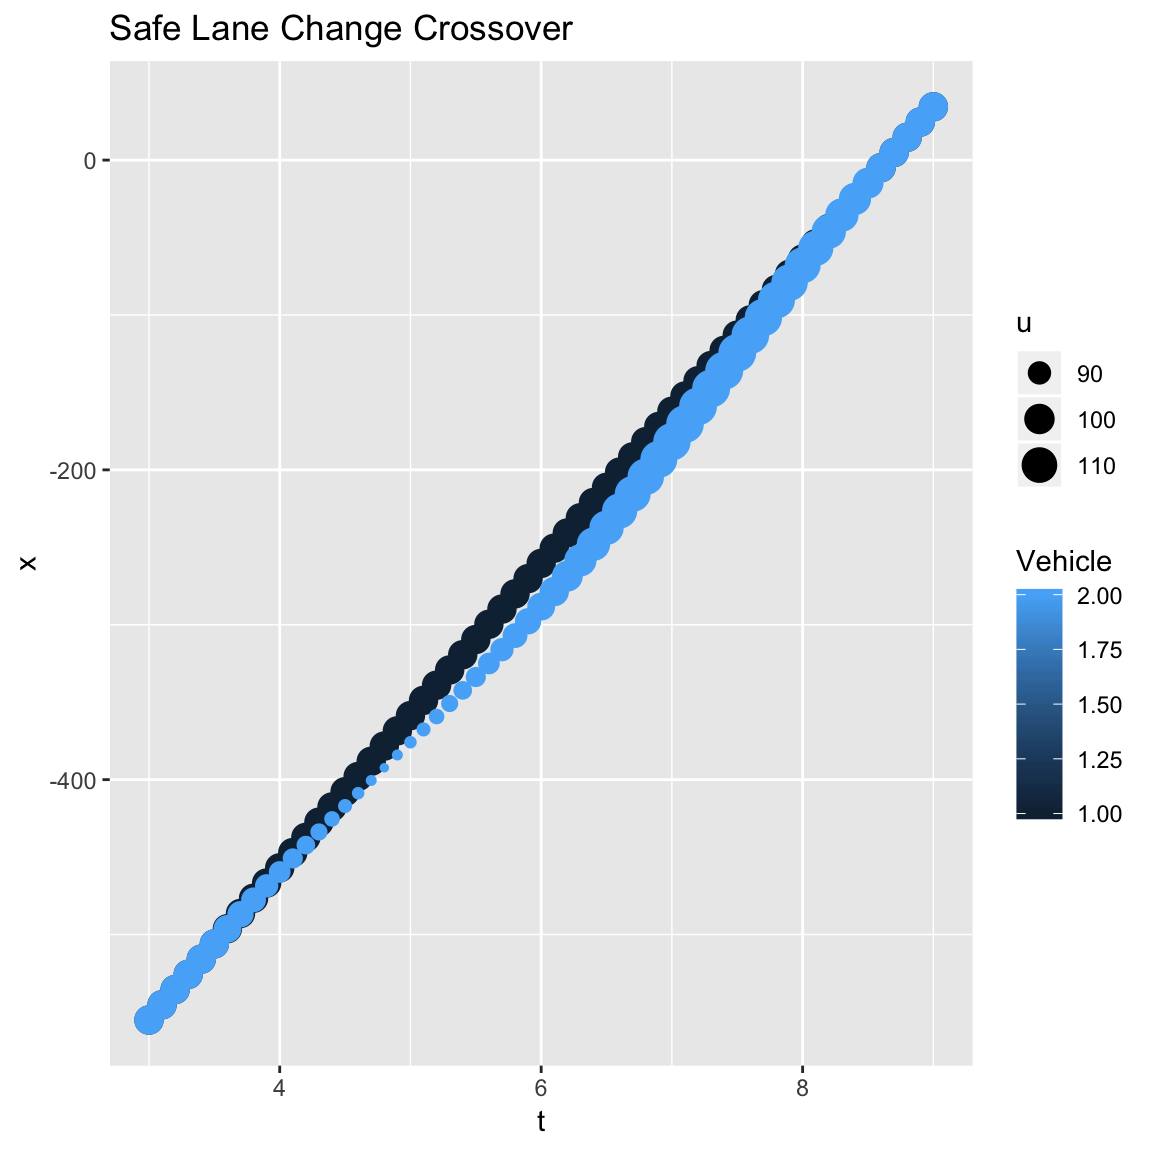
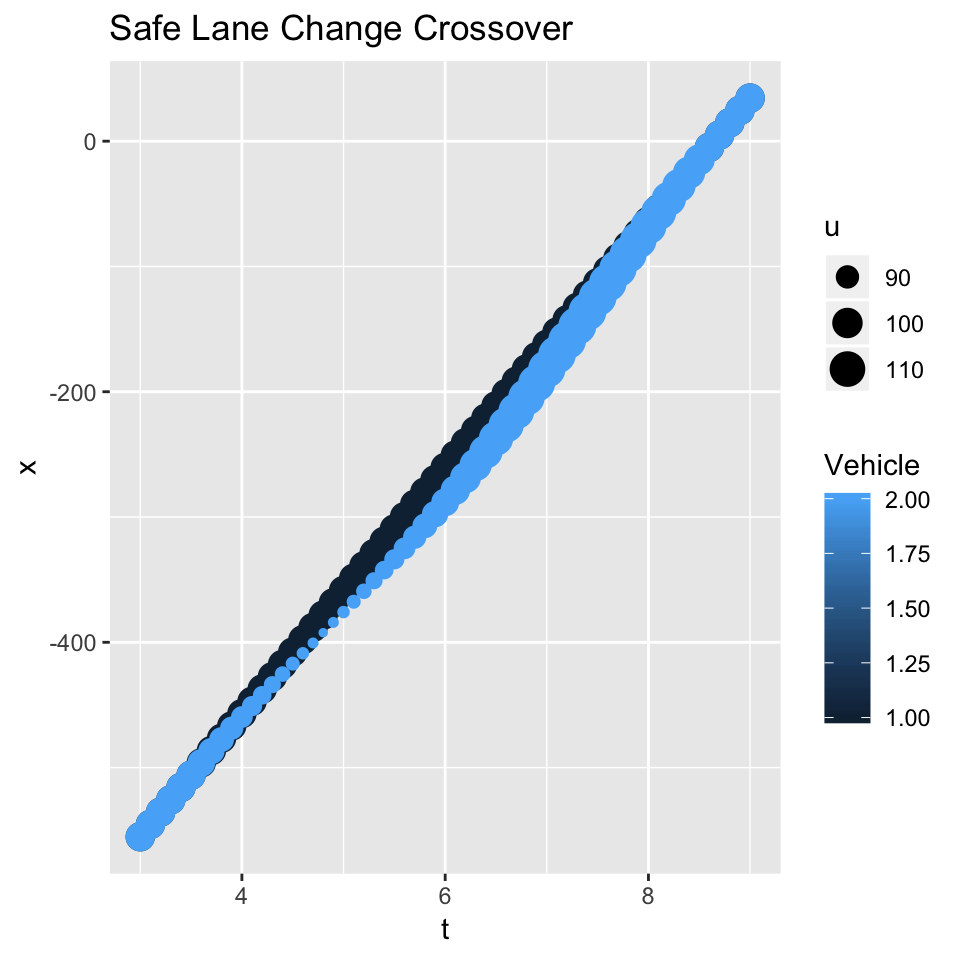
Refine the text

diff --git a/index.html b/index.html
@@ -240,11 +240,8 @@ $(document).ready(function () {
 <p>Users are encouraged to freely use any of the material used to create this package. Clink on the following links to access information about <strong>cartools</strong>:</p>
 <ol style="list-style-type: decimal">
 <li><p><a href="https://github.com/PJOssenbruggen/Basic/blob/master/vignettes/cartools.Rmd">Code</a>: This ‘GitHub’ repository contains the <strong>cartools</strong> functions and data sets.</p></li>
-<li><p><a href="https://PJOssenbruggen.github.io/cartools/index.html">Website</a>: This ‘GitHub Pages’ website: (a) provides instruction for using the <strong>cartools</strong> code and its various algorithms for solving a variety of transportation problems; and (b) gives justification, a detailed in depth look at basic principles, for using the code to help answer the fundamental question:</p></li>
+<li><p><a href="https://PJOssenbruggen.github.io/cartools/index.html">Website</a>: This ‘GitHub Pages’ website: (a) provides instruction for using the <strong>cartools</strong> code and its various algorithms for solving a variety of transportation problems; and (b) gives justification, a detailed in depth look at basic principles, for using the code to help answer the fundamental questions. Real-world problems are investigated.</p></li>
 </ol>
-<blockquote>
-<p><em>How can we mitigate traffic congestion when a traffic breakdown event is so difficult to predict?</em></p>
-</blockquote>
 <p>People familiar with <a href="https://cran.r-project.org">R</a> and <a href="https://www.rstudio.com">RStudio</a> may download, use and share this material as they see fit. Feedback is welcomed.</p>
 <p><strong>Purpose</strong></p>
 <p>The primary purpose of this website deals with transportation engineering, operations and management. I would remiss in not drawing attention to the major advances made in computer science and statistics that enhance learning.</p>
@@ -252,23 +249,14 @@ $(document).ready(function () {
 <p><strong>Challenges</strong></p>
 <p>Now lets turn attention to transportation issues.</p>
 <p>“In many industrialized nations today, highways present engineers and governments with formidable challenges relating to safety, sustainability, environmental impacts, congestion mitigation, and deteriorating infrastructure. As a result, highways are often viewed from a perspective of the many challenges as they present as opposed to the benefits that they provide. <span class="citation">(Mannering and Washburn 2017)</span>”</p>
-<p><strong>Focus:</strong></p>
+<p><strong>Focus:</strong> The <strong>cartools</strong> package and this website focus on traffic congestion mitigation. We pose a most perplexing question:</p>
 <blockquote>
 <p>How can we mitigate traffic congestion when a traffic breakdown event is so difficult to predict?</p>
 </blockquote>
-<p><em>Hypothesis:</em> The following variables can (1) explain and (2) predict a traffic breakdown event:</p>
-<p><span class="math inline">\(n\)</span> = traffic count (number of vehicles), measured as a traffic density, <span class="math inline">\(k\)</span> in vehicles per mile (vpm),</p>
-<p><span class="math inline">\(\sigma\)</span> = traffic noise, measured as speed volatility,</p>
-<p><span class="math inline">\(h_{safe} = f(u, l_{eff})\)</span>, a function of speed <span class="math inline">\(u\)</span> and vehicle length <span class="math inline">\(l_{eff}\)</span>, and</p>
-<p>driver behavior and road design (geometry).</p>
-<p><strong>Aims</strong></p>
-<p>The <strong>cartools</strong> package is designed for college students studying transportation engineering and for transportation professionals and researchers interested in understanding the complex relationships associated with freeway performance and traffic breakdown. Emphasis is placed on:</p>
-<ul>
-<li><p><em>Traffic noise or volatility</em>.</p></li>
-<li><p><em>Driver behavior and safety</em>.</p></li>
-<li><p><em>Stochastic modeling</em>, models that explain breakdown and performance.</p></li>
-</ul>
-<p>The website contains the following menu items:</p>
+<p>A roadway can operate normally on one day and on the next day, be congested. Obviously, traffic conditions change from day-to-day, They also change on a finer time-scale from second-to-second. In <strong>cartools</strong>, we treat these uncertainties or chance events with probability. The trick is to identity those factors that can reliably predict a <em>traffic breakdown event</em>, an event when the average speed will falls below some pre-defined level.</p>
+<p>The list of factors that explains a traffic breakdown event is long. In due time, we explore these factors. But for now, consider one of these factors, <em>driver behavior</em>. Drivers are described as safe, aggressive (speeders, tailgaters), reckless (text while driving), inattentive and so on. We will see that under ideal conditions, drivers, who are determined to maintain a specified speed, are unable to do so. Human frailty is part of the driver behavior mix.</p>
+<p>Obviously, solving the traffic breakdown puzzle requires a comprehensive knowledge of the individual elements of the driver behavior mix and those factors that influence driver behavior and traffic demand: traffic management, law enforcement, roadway design, monetary (out-of-pocket) and human costs (crash risk), transport mode competition and technology.</p>
+<p>In <strong>cartools</strong>, the strategy is to break this puzzle into more manageable parts, explore each part, and then reassemble the parts in a meaningful way. Fundamental principles of transportation, probability, statistics and visual imagery, graphics, are the principle means of exploring a part or an assembly of parts with <strong>cartools</strong>. The website contains the following menu items, which we call the <em>manageable parts</em>:</p>
 <ol style="list-style-type: decimal">
 <li><h5 id="drivers-self-optimizers.-meeting-the-challenges."><strong>Drivers:</strong> <em>Self Optimizers</em>. Meeting the challenges.</h5></li>
 <li><h5 id="noise-traffic-noise-or-volatility.-exploratory-data-analysis-of-a-congested-freeway-bottleneck."><strong>Noise:</strong> <em>Traffic noise or volatility</em>. Exploratory data analysis of a congested freeway bottleneck.</h5></li>
@@ -281,7 +269,7 @@ $(document).ready(function () {
 <li><h5 id="smart-mobility-intelligent-transportation-systems.-moving-forward-with-innovative-technology."><strong>Smart Mobility:</strong> <em>Intelligent Transportation Systems.</em> Moving forward with innovative technology.</h5></li>
 <li><h5 id="summary-cartools-package-highlights."><strong>Summary:</strong> <strong>cartools</strong> package highlights.</h5></li>
 </ol>
-<p>The principal aim of the <strong>cartools</strong> package is to explain highway performance as simply as possible. Topics are introduced in a step-by-step manner. The <strong>cartools</strong> package is derived and developed from a diverse set of resources:</p>
+<p>The principal aim of the <strong>cartools</strong> package is to explain highway performance as simply as possible. These topics are introduced in a step-by-step manner. The <strong>cartools</strong> package is derived and developed from a diverse set of resources:</p>
 <ul>
 <li><p><em>Traffic analysis:</em> <span class="citation">Banks (1998)</span>, <span class="citation">Daganzo (1997)</span>, <span class="citation">Elefteriadou (2014)</span>, <span class="citation">Ossenbruggen (2017)</span>, <span class="citation">Sugiyama et al. (2008)</span>, <span class="citation">Trieber and Kesting (2013)</span></p></li>
 <li><p><em>Probability and statistics:</em> <span class="citation">Agresti (1990)</span>, <span class="citation">Hosmer and Lemeshow (1989)</span>, <span class="citation">Iacus (2008)</span>, <span class="citation">Vandeale (1983)</span></p></li>

diff --git a/crossover.html b/crossover.html
@@ -237,12 +237,14 @@ $(document).ready(function () {
 <p><img src="crossover_files/figure-html/crossconflict-1.png" width="768" /></p>
 <p>To avoid a crash, the driver on lane 2 yields as shown. Driver 2 slows down and allows driver 1 to pass in front of his/her vehicle. Driver 1 maintains a speed of 67 mph. A crash is avoided. Here we show the driver in the following vehicle to crossover a “safe distance” behind the leader.</p>
 <p>What is a “safe distance?” Since we don’t have field measures, we base our assumption and justify it based our experience as a driver. The distance headway is assumed to be 28 feet or two car lengths. In other words, the distance between the back bumper of the lead vehicle and front bumper of our vehicle is one vehicle length or 14 feet. Some people may criticize it as being too close given the speeds of two vehicles are 67 mph. However, the relative speed between vehicles is zero. Are the critics right in claiming that we are not cautious enough?</p>
-<p><img src="crossover_files/figure-html/plotcrossover-1.png" width="576" /></p>
+<p><img src="crossover_files/figure-html/plotcrossover-1.png" width="480" /></p>
 <p>To address the issue, we will investigate our speed and acceleration using the <span class="math inline">\(t-x\)</span> trajectory shown above. Note that the speeds on the plot are shown in feet per second. The relative size of the speed bullets give the impression that we may decelerating at a high rate, suggesting that we may be introducing unsafe condition. At around <span class="math inline">\(t\)</span> = 5 seconds, our speed drops to 56 mph (82 fps) and at around <span class="math inline">\(t\)</span> = 7.5, our speed reaches a maximum of 78 mph (115 fps). Our acceleration is approximately 8.8 feet per second-square. The accelerate rate is considered comfortable, so we argue that our weave is safe. After all, we are assuming that we are not under the influence of alcohol or drugs, which is obviously against the law.</p>
 <p>By the way, a more cautious driver of lane 2 may slow to 56 mph and remain in the lane.</p>
 <p><strong>Traffic Breakdown and Queue Formation</strong></p>
 <p>While we slowdown “safely,” the potential for a traffic breakdown resulting from a crossover by one or two vehicles is evident. Imagine if more vehicles were on the road and our vehicle in lane 2 decelerated as described. Its effect would progress upstream, causing following vehicles to slow.</p>
 <p>The code will be upgraded to include more following vehicles. At the same time, the code for creating the <strong>Conflict</strong> and <strong>Safe Crossover</strong> overhead diagrams will be updated. Vehicles do not follow straight-line trajectories, but curved ones.</p>
+<p><strong>Roadway Geometry</strong></p>
+<p><img src="crossover_files/figure-html/roadentrance-1.png" width="960" /></p>
 <hr />
 <p><strong>References</strong></p>
 
